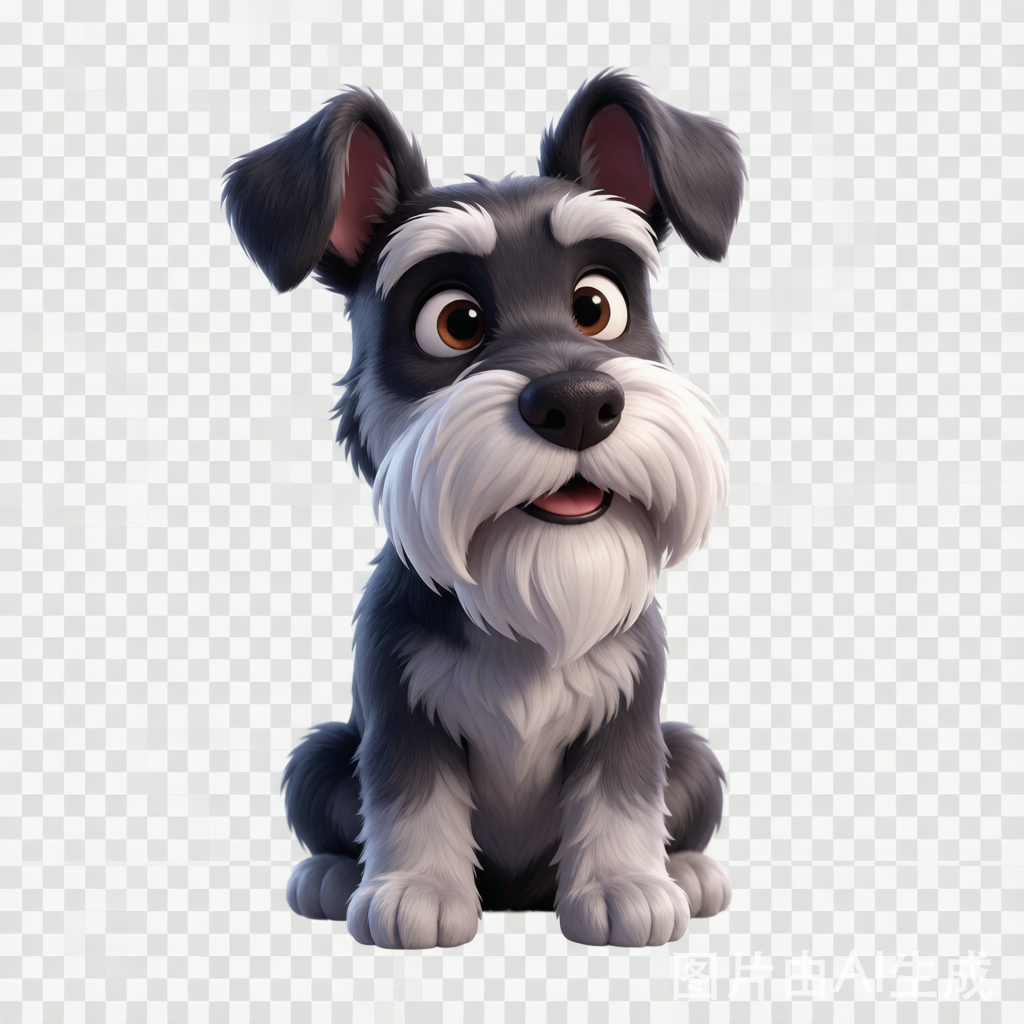
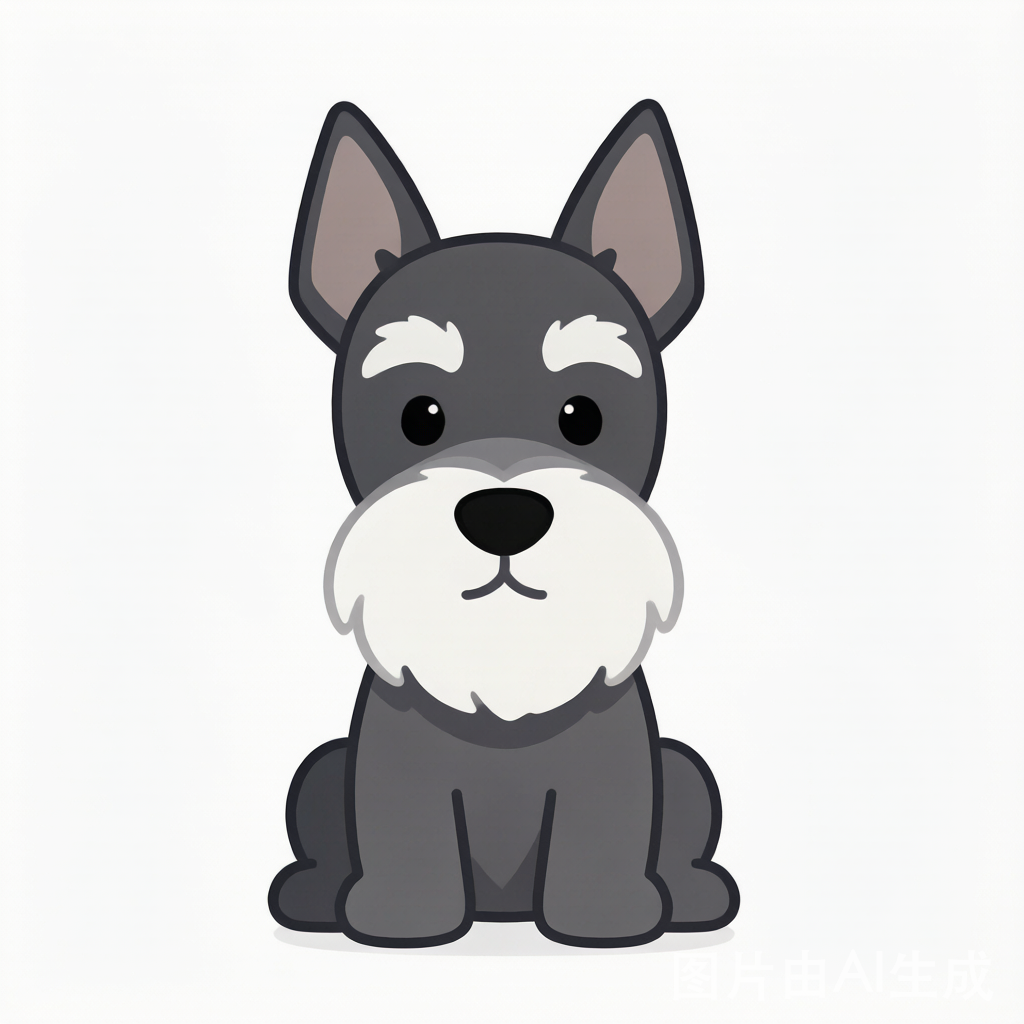
fix: 高质感saint_4+立耳雪纳瑞+手机端同步按钮修复

diff --git a/Delta_24K_Terminal.html b/Delta_24K_Terminal.html
@@ -104,8 +104,19 @@
         }
         .nav-actions {
             display: flex;
-            gap: 8px;
+            gap: 6px;
             align-items: center;
+            flex-wrap: wrap;
+            justify-content: flex-end;
+        }
+        @media (max-width: 768px) {
+            .nav-actions {
+                gap: 4px;
+            }
+            .nav-actions .btn-sm {
+                padding: 6px 10px;
+                font-size: 0.75rem;
+            }
         }
 
         /* ========== 状态卡片行 ========== */

diff --git a/index.html b/index.html
@@ -104,8 +104,19 @@
         }
         .nav-actions {
             display: flex;
-            gap: 8px;
+            gap: 6px;
             align-items: center;
+            flex-wrap: wrap;
+            justify-content: flex-end;
+        }
+        @media (max-width: 768px) {
+            .nav-actions {
+                gap: 4px;
+            }
+            .nav-actions .btn-sm {
+                padding: 6px 10px;
+                font-size: 0.75rem;
+            }
         }
 
         /* ========== 状态卡片行 ========== */